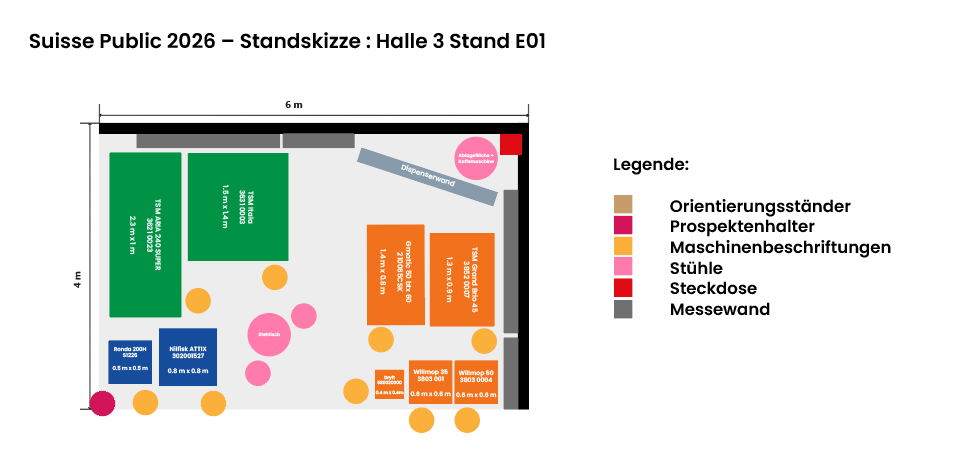
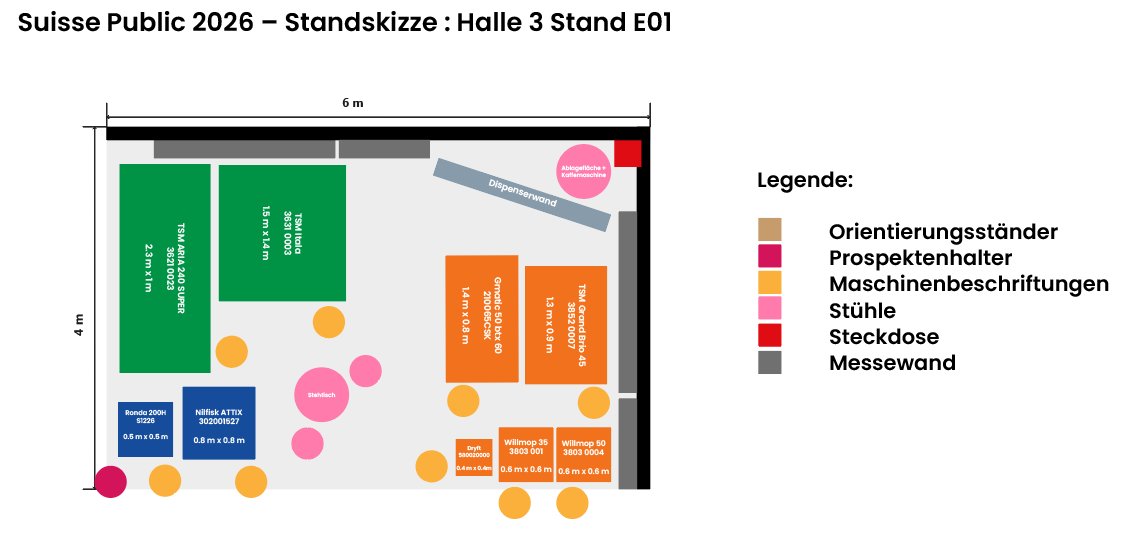
Add files via upload

diff --git a/pag-innenstand.html b/pag-innenstand.html
@@ -171,6 +171,11 @@
           <div role="row"><span><input type="checkbox" data-check="pag-mat-schere"></span><span>Schere</span><span contenteditable="true" data-field="pag-anz-schere"></span><span>Diverses</span><span contenteditable="true" data-field="pag-bem-schere"></span></div>
           <div role="row"><span><input type="checkbox" data-check="pag-mat-laptop"></span><span>Laptop</span><span contenteditable="true" data-field="pag-anz-laptop"></span><span>Diverses</span><span contenteditable="true" data-field="pag-bem-laptop">Mitarbeiter sollen mitnehmen</span></div>
           <div role="row"><span><input type="checkbox" data-check="pag-mat-laptop-kabel"></span><span>Laptop Ladekabel</span><span contenteditable="true" data-field="pag-anz-laptop-kabel"></span><span>Diverses</span><span contenteditable="true" data-field="pag-bem-laptop-kabel">Mitarbeiter sollen mitnehmen</span></div>
+          <div role="row"><span><input type="checkbox" data-check="pag-mat-extra-1"></span><span contenteditable="true" data-field="matname-pag-mat-extra-1"></span><span contenteditable="true" data-field="anz-pag-mat-extra-1"></span><span contenteditable="true" data-field="matkat-pag-mat-extra-1"></span><span contenteditable="true" data-field="bem-pag-mat-extra-1"></span></div>
+          <div role="row"><span><input type="checkbox" data-check="pag-mat-extra-2"></span><span contenteditable="true" data-field="matname-pag-mat-extra-2"></span><span contenteditable="true" data-field="anz-pag-mat-extra-2"></span><span contenteditable="true" data-field="matkat-pag-mat-extra-2"></span><span contenteditable="true" data-field="bem-pag-mat-extra-2"></span></div>
+          <div role="row"><span><input type="checkbox" data-check="pag-mat-extra-3"></span><span contenteditable="true" data-field="matname-pag-mat-extra-3"></span><span contenteditable="true" data-field="anz-pag-mat-extra-3"></span><span contenteditable="true" data-field="matkat-pag-mat-extra-3"></span><span contenteditable="true" data-field="bem-pag-mat-extra-3"></span></div>
+          <div role="row"><span><input type="checkbox" data-check="pag-mat-extra-4"></span><span contenteditable="true" data-field="matname-pag-mat-extra-4"></span><span contenteditable="true" data-field="anz-pag-mat-extra-4"></span><span contenteditable="true" data-field="matkat-pag-mat-extra-4"></span><span contenteditable="true" data-field="bem-pag-mat-extra-4"></span></div>
+          <div role="row"><span><input type="checkbox" data-check="pag-mat-extra-5"></span><span contenteditable="true" data-field="matname-pag-mat-extra-5"></span><span contenteditable="true" data-field="anz-pag-mat-extra-5"></span><span contenteditable="true" data-field="matkat-pag-mat-extra-5"></span><span contenteditable="true" data-field="bem-pag-mat-extra-5"></span></div>
         </div>
       </section>
 

diff --git a/sondi-aussenstand.html b/sondi-aussenstand.html
@@ -175,6 +175,11 @@
           <div role="row"><span><input type="checkbox" data-check="mat-werkzeugkiste"></span><span>Werkzeugkiste</span><span contenteditable="true" data-field="anz-werkzeugkiste"></span><span>Diverses</span><span contenteditable="true" data-field="bem-werkzeugkiste"></span></div>
           <div role="row"><span><input type="checkbox" data-check="mat-silikonspray"></span><span>Silikonspray</span><span contenteditable="true" data-field="anz-silikonspray"></span><span>Diverses</span><span contenteditable="true" data-field="bem-silikonspray"></span></div>
           <div role="row"><span><input type="checkbox" data-check="mat-edelstahlspray"></span><span>Edelstahlspray</span><span contenteditable="true" data-field="anz-edelstahlspray"></span><span>Diverses</span><span contenteditable="true" data-field="bem-edelstahlspray"></span></div>
+          <div role="row"><span><input type="checkbox" data-check="mat-extra-1"></span><span contenteditable="true" data-field="matname-mat-extra-1"></span><span contenteditable="true" data-field="anz-mat-extra-1"></span><span contenteditable="true" data-field="matkat-mat-extra-1"></span><span contenteditable="true" data-field="bem-mat-extra-1"></span></div>
+          <div role="row"><span><input type="checkbox" data-check="mat-extra-2"></span><span contenteditable="true" data-field="matname-mat-extra-2"></span><span contenteditable="true" data-field="anz-mat-extra-2"></span><span contenteditable="true" data-field="matkat-mat-extra-2"></span><span contenteditable="true" data-field="bem-mat-extra-2"></span></div>
+          <div role="row"><span><input type="checkbox" data-check="mat-extra-3"></span><span contenteditable="true" data-field="matname-mat-extra-3"></span><span contenteditable="true" data-field="anz-mat-extra-3"></span><span contenteditable="true" data-field="matkat-mat-extra-3"></span><span contenteditable="true" data-field="bem-mat-extra-3"></span></div>
+          <div role="row"><span><input type="checkbox" data-check="mat-extra-4"></span><span contenteditable="true" data-field="matname-mat-extra-4"></span><span contenteditable="true" data-field="anz-mat-extra-4"></span><span contenteditable="true" data-field="matkat-mat-extra-4"></span><span contenteditable="true" data-field="bem-mat-extra-4"></span></div>
+          <div role="row"><span><input type="checkbox" data-check="mat-extra-5"></span><span contenteditable="true" data-field="matname-mat-extra-5"></span><span contenteditable="true" data-field="anz-mat-extra-5"></span><span contenteditable="true" data-field="matkat-mat-extra-5"></span><span contenteditable="true" data-field="bem-mat-extra-5"></span></div>
         </div>
       </section>
 

diff --git a/index.html b/index.html
@@ -112,6 +112,21 @@
                 <span>Dani</span>
               </div>
             </div>
+            <h3 style="margin-top:14px;">KECKEX Mobi-Lieferung</h3>
+            <div class="kv-list">
+              <div class="kv-row">
+                <span class="kv-key">Lieferort</span>
+                <span>Bützberg</span>
+              </div>
+              <div class="kv-row">
+                <span class="kv-key">Bis</span>
+                <span>Fr, 12. Juni 2026</span>
+              </div>
+              <div class="kv-row">
+                <span class="kv-key">Zuständig</span>
+                <span>Stephan</span>
+              </div>
+            </div>
             <span class="chip orange" style="margin-top:18px;display:inline-block;">Do, 11. Juni 2026</span>
             <h3>Verladen Herisau</h3>
             <div class="kv-list">
